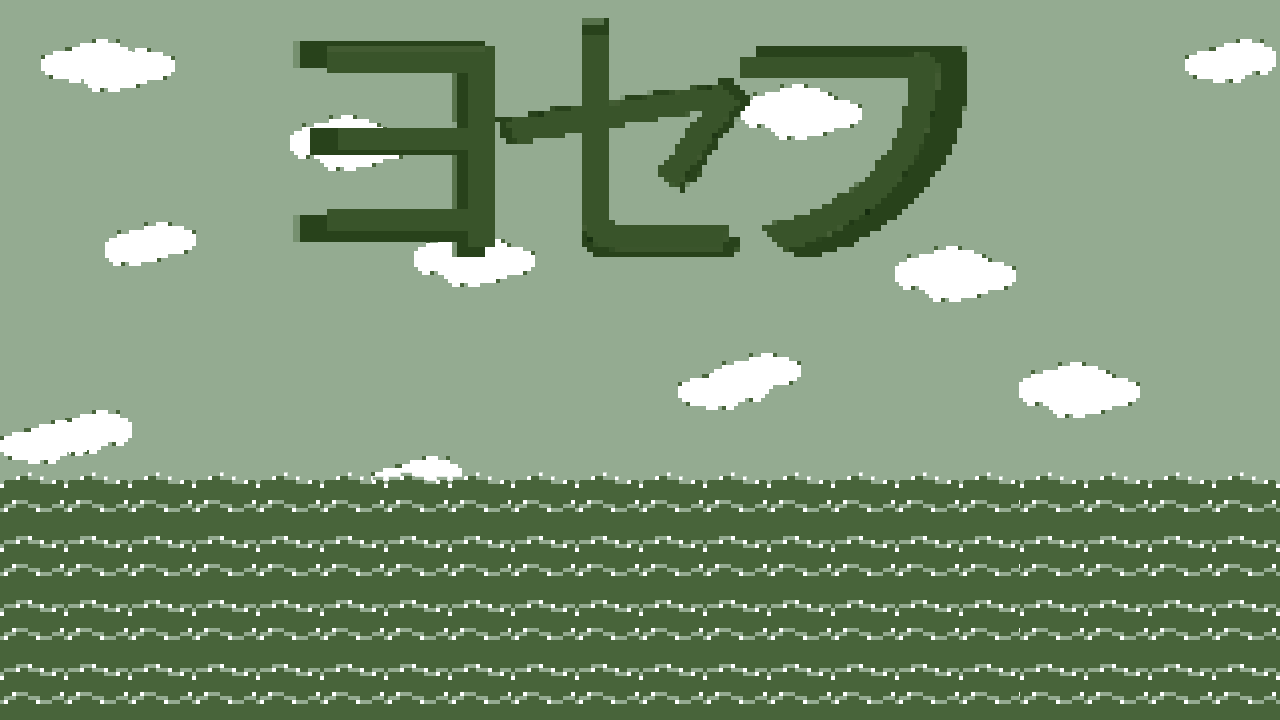
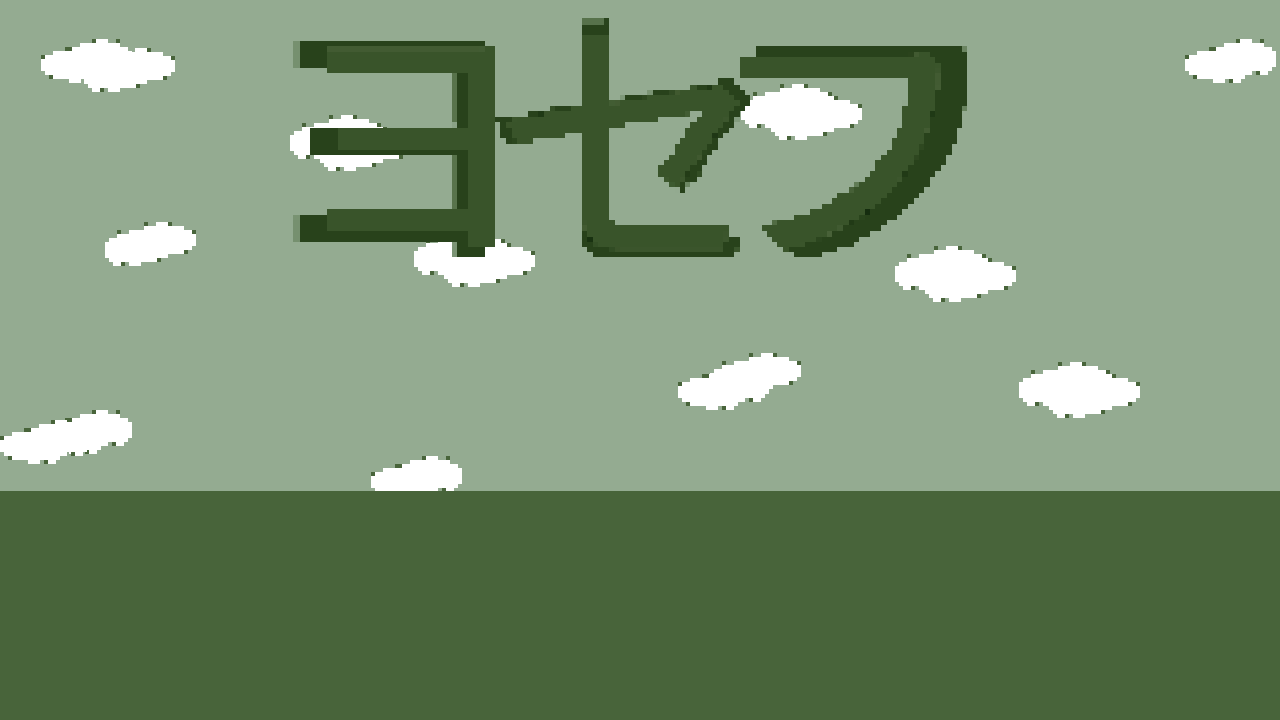
Added water animation to main menu. Updated some map files.

Changed region(s): [[0.0, 0.6417, 1.0, 0.8861], [0.0, 0.9167, 1.0, 0.9778]]

diff --git a/core/src/com/yosefu/game/MainMenu.java b/core/src/com/yosefu/game/MainMenu.java
@@ -5,18 +5,33 @@ import com.badlogic.gdx.Input;
 import com.badlogic.gdx.Screen;
 import com.badlogic.gdx.graphics.GL20;
 import com.badlogic.gdx.graphics.Texture;
+import com.badlogic.gdx.graphics.g2d.Animation;
+import com.badlogic.gdx.graphics.g2d.TextureRegion;
+import com.badlogic.gdx.scenes.scene2d.utils.TiledDrawable;
 
-public class MainMenu implements Screen{
+public class MainMenu implements Screen {
     private final Yosefu game;
     private Texture bg;
+    private TextureRegion currentFrame;
+    private Animation waveAnimation;
+    private float stateTime = 0;
+    private Texture spriteSheet;
 
     public MainMenu(Yosefu game) {
         this.game = game;
         bg = new Texture(Gdx.files.internal("mainmenu.png"));
+        spriteSheet = new Texture(Gdx.files.internal("watersprite.png"));
+        int rows = 1, columns = 4;
+        TextureRegion[][] frames = TextureRegion.split(spriteSheet, spriteSheet.getWidth() / columns, spriteSheet.getHeight() / rows);
+        waveAnimation = new Animation(0.07f, frames[0]);
+        currentFrame = waveAnimation.getKeyFrame(0, true);
+        spriteSheet.setWrap(Texture.TextureWrap.Repeat, Texture.TextureWrap.Repeat);
     }
 
     @Override
     public void render(float delta) {
+        stateTime += Gdx.graphics.getDeltaTime();
+        currentFrame = waveAnimation.getKeyFrame(stateTime, true);
         Gdx.gl.glClearColor(1, 1, 1, 1);
         Gdx.gl.glClear(GL20.GL_COLOR_BUFFER_BIT);
 
@@ -25,6 +40,8 @@ public class MainMenu implements Screen{
         game.font.setColor(0.0f, 0.1f, 0.0f, 1.0f);
         game.font.setScale(1.0f);
         game.font.draw(game.staticBatch, "Press ENTER to start.", 500, 280);
+        TiledDrawable tile = new TiledDrawable(currentFrame);
+        tile.draw(game.staticBatch, 0, 0, 1280, 64 * 4);
         game.staticBatch.end();
 
         if (Gdx.input.isKeyJustPressed(Input.Keys.ENTER)) {
@@ -60,6 +77,6 @@ public class MainMenu implements Screen{
 
     @Override
     public void dispose() {
-
+        spriteSheet.dispose();
     }
 }

diff --git a/core/src/com/yosefu/game/Player.java b/core/src/com/yosefu/game/Player.java
@@ -39,7 +39,6 @@ public class Player extends Rectangle {
         DOWN = new Animation(0.1f, frames[1]);
         UP = new Animation(0.1f, frames[2]);
         stateTime = 0;
-        currentFrame = UP.getKeyFrame(0);
         playerLocation = new Location(this, 64);
         stats = new Stats(10, 10, 2.123f);
     }
